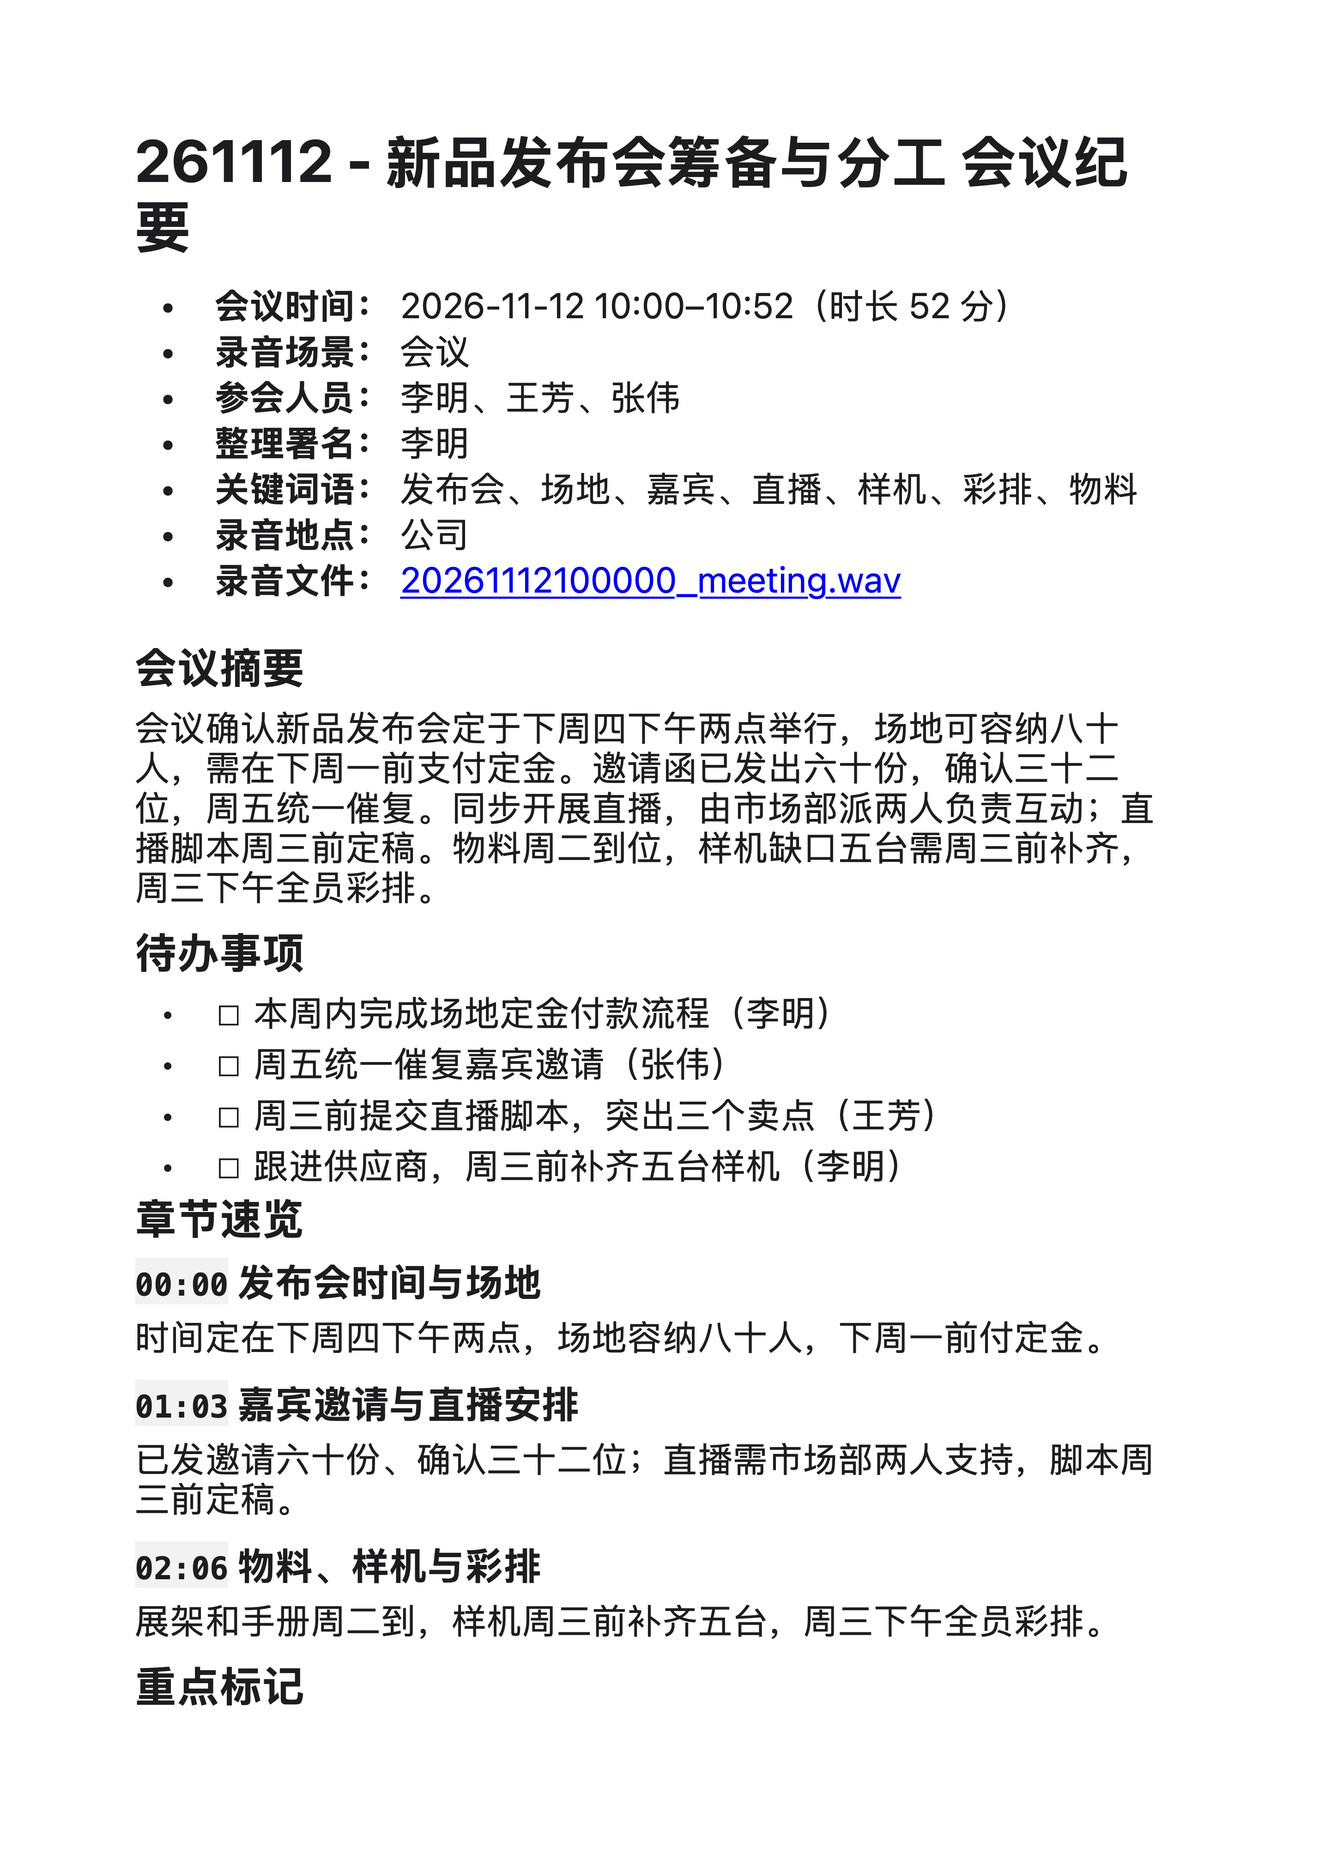
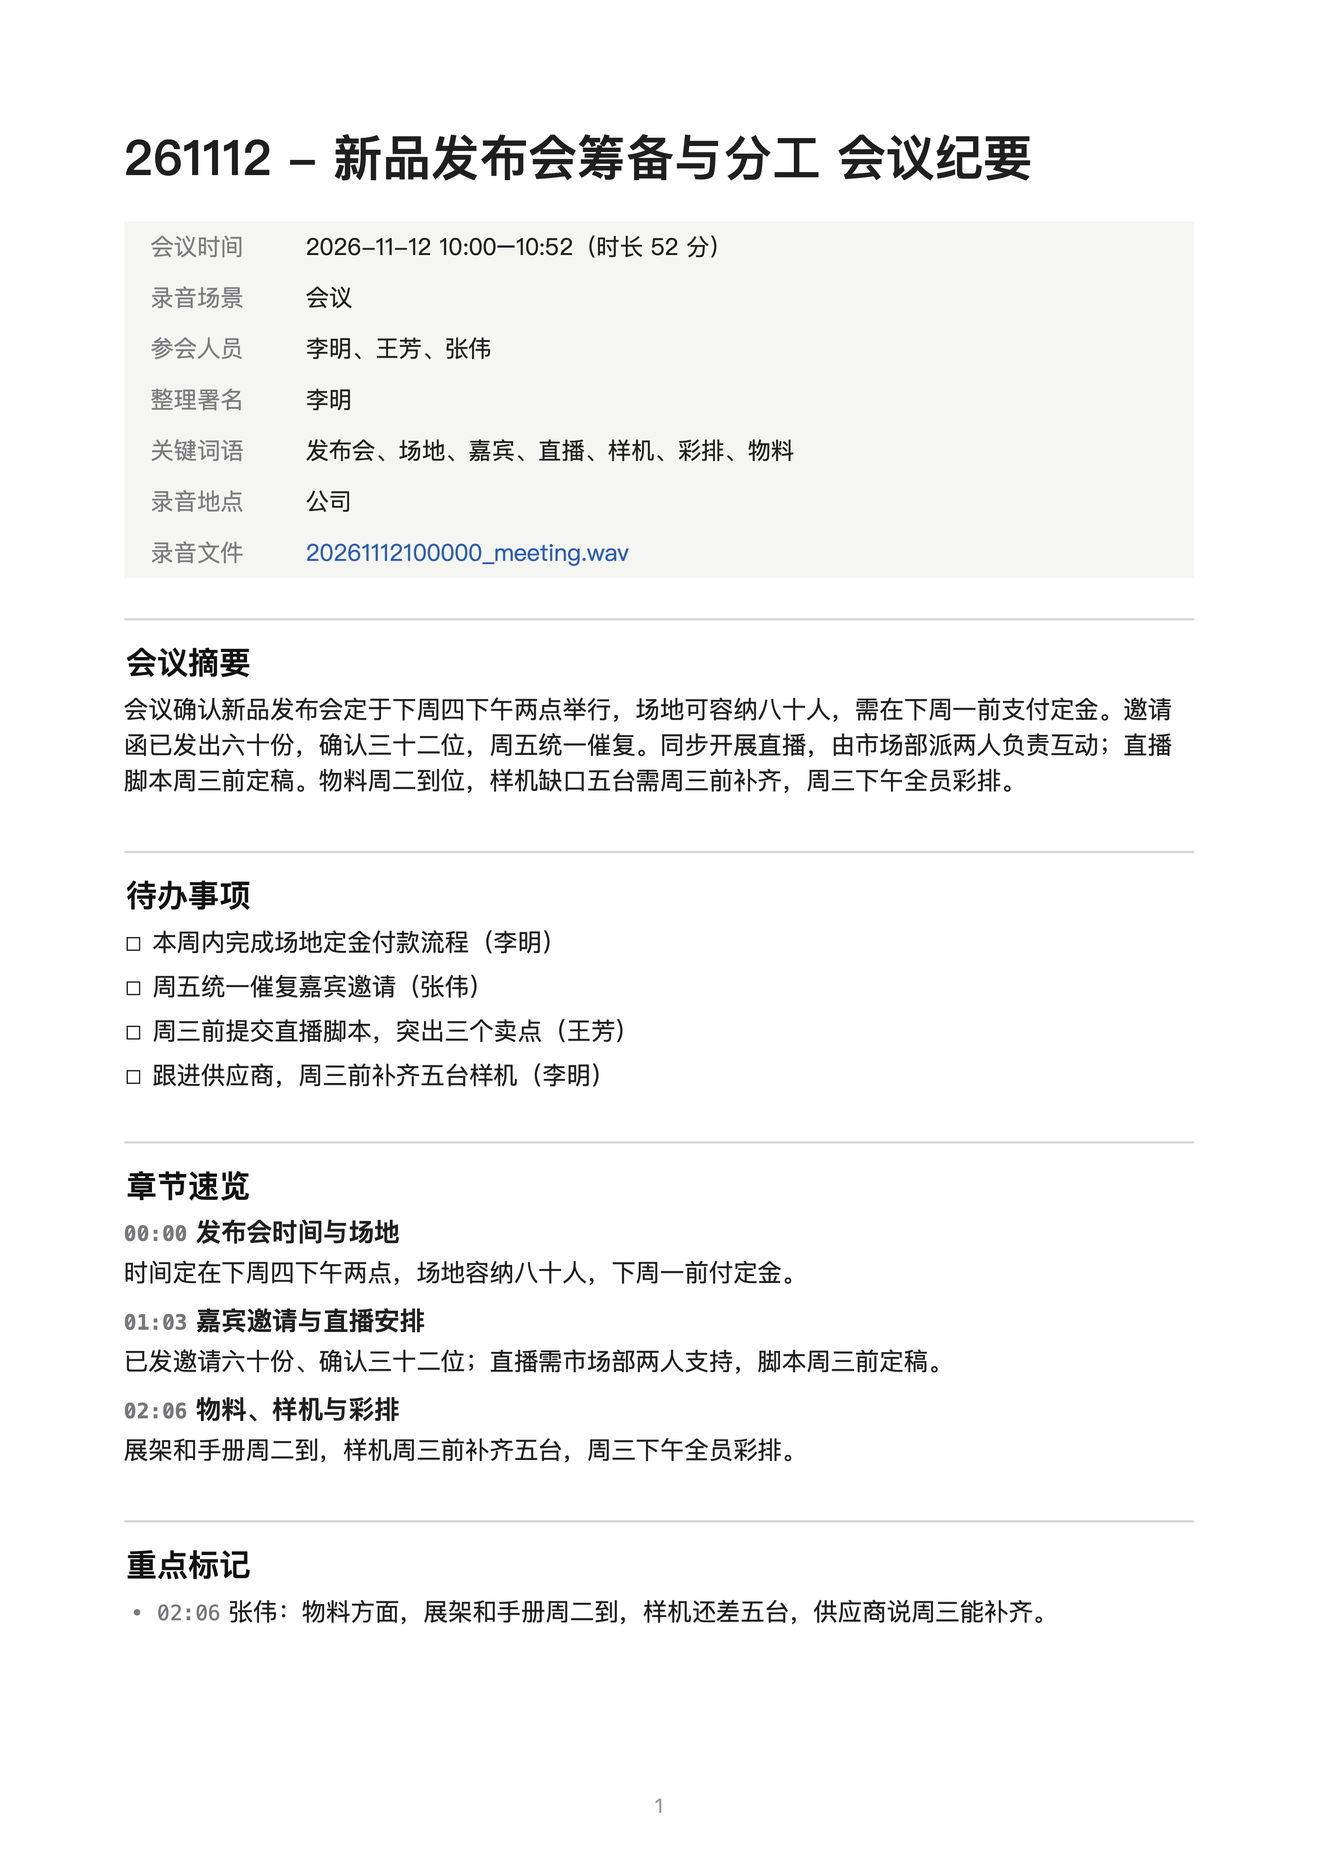
1.3.1：纪要的 PDF / Word 版式重排，示例截图同步更新

diff --git a/app/Sources/E1Recorder/Export.swift b/app/Sources/E1Recorder/Export.swift
@@ -9,31 +9,69 @@ enum NoteExporter {
     @MainActor static func write(_ markdown: String, to url: URL) throws {
         switch url.pathExtension.lowercased() {
         case "docx":
-            let a = try attributed(markdown)
+            let a = try attributed(markdown, layout: .word)
             let data = try a.data(from: NSRange(location: 0, length: a.length),
                                   documentAttributes: [.documentType: NSAttributedString.DocumentType.officeOpenXML])
             try data.write(to: url, options: .atomic)
         case "pdf":
-            try writePDF(try attributed(markdown), to: url)
+            try writePDF(try attributed(markdown, layout: .page), to: url)
         default:
             try markdown.write(to: url, atomically: true, encoding: .utf8)
         }
     }
 
-    @MainActor private static func attributed(_ markdown: String) throws -> NSAttributedString {
-        let html = MarkdownHTML.document(markdown)
-        guard let a = NSAttributedString(html: Data(html.utf8), options: [.characterEncoding: String.Encoding.utf8.rawValue],
-                                         documentAttributes: nil) else { throw AppError("纪要排版失败") }
+    @MainActor private static func attributed(_ markdown: String, layout: MarkdownHTML.Layout) throws -> NSAttributedString {
+        let html = MarkdownHTML.document(markdown, layout: layout)
+        guard let a = NSMutableAttributedString(html: Data(html.utf8), options: [.characterEncoding: String.Encoding.utf8.rawValue],
+                                                documentAttributes: nil) else { throw AppError("纪要排版失败") }
+        tune(a)
         return a
     }
 
-    /// A4 pages with 2 cm margins.
+    /// The HTML importer sizes tables for an 800-point window and indents lists deeply; refit both to the page.
+    private static func tune(_ a: NSMutableAttributedString) {
+        var tableWidth: [ObjectIdentifier: CGFloat] = [:]
+        var cells = Set<ObjectIdentifier>()
+        a.enumerateAttribute(.paragraphStyle, in: NSRange(location: 0, length: a.length)) { value, range, _ in
+            guard let old = value as? NSParagraphStyle else { return }
+            for case let cell as NSTextTableBlock in old.textBlocks {
+                let table = cell.table, key = ObjectIdentifier(table)
+                if tableWidth[key] == nil {
+                    tableWidth[key] = table.contentWidthValueType == .absoluteValueType ? table.contentWidth : 0
+                    table.setContentWidth(100, type: .percentageValueType)
+                }
+                guard cells.insert(ObjectIdentifier(cell)).inserted else { continue }
+                if table.numberOfColumns == 1 {
+                    cell.setContentWidth(0, type: .absoluteValueType)      // a width of 0 means "take what is left": the full line
+                    // space above goes here: a top margin written in CSS is also taken off the right-hand side
+                    let ruled = cell.width(for: .border, edge: .minY) > 0
+                    cell.setWidth(ruled ? 18 : 6, type: .absoluteValueType, for: .margin, edge: .minY)
+                    if !ruled { cell.setWidth(8, type: .absoluteValueType, for: .margin, edge: .maxY) }
+                } else if table.numberOfColumns == 2, cell.backgroundColor != nil, cell.width(for: .border, edge: .minY) == 0 {
+                    // the details block: a label column just wide enough for four characters, the rest for the value
+                    cell.setContentWidth(cell.startingColumn == 0 ? 46 : 0, type: .absoluteValueType)
+                } else if let total = tableWidth[key], total > 0, cell.contentWidthValueType == .absoluteValueType, cell.contentWidth > 0 {
+                    cell.setContentWidth(min(100, cell.contentWidth / total * 100), type: .percentageValueType)
+                }
+            }
+            if !old.textLists.isEmpty, let p = old.mutableCopy() as? NSMutableParagraphStyle {
+                let indent = CGFloat(old.textLists.count - 1) * 16
+                p.tabStops = [NSTextTab(textAlignment: .left, location: indent + 3), NSTextTab(textAlignment: .left, location: indent + 15)]
+                p.firstLineHeadIndent = 0
+                p.headIndent = indent + 15
+                a.addAttribute(.paragraphStyle, value: p, range: range)
+            }
+        }
+    }
+
+    /// A4 pages with 2 cm margins and a page number at the foot.
     @MainActor private static func writePDF(_ text: NSAttributedString, to url: URL) throws {
         let paper = NSSize(width: 595.28, height: 841.89), margin: CGFloat = 56
-        let view = NSTextView(frame: NSRect(x: 0, y: 0, width: paper.width - 2 * margin, height: 10))
+        let view = PageView(frame: NSRect(x: 0, y: 0, width: paper.width - 2 * margin, height: 10))
         view.textStorage?.setAttributedString(text)
         view.isVerticallyResizable = true
         view.textContainer?.widthTracksTextView = true
+        view.textContainer?.lineFragmentPadding = 0
         view.layoutManager?.ensureLayout(for: view.textContainer!)
         view.sizeToFit()
         let info = NSPrintInfo(dictionary: [.jobSavingURL: url])
@@ -48,38 +86,95 @@ enum NoteExporter {
         op.showsProgressPanel = false
         guard op.run() else { throw AppError("生成 PDF 失败") }
     }
+
+    /// The text of the note, plus a small page number centred in the bottom margin of every sheet.
+    private final class PageView: NSTextView {
+        override func drawPageBorder(with borderSize: NSSize) {
+            guard let op = NSPrintOperation.current else { return }
+            let saved = frame
+            setFrameOrigin(.zero)
+            setFrameSize(borderSize)
+            lockFocus()
+            let label = NSAttributedString(string: "\(op.currentPage)", attributes: [
+                .font: NSFont.systemFont(ofSize: 9), .foregroundColor: NSColor(white: 0.6, alpha: 1)])
+            let size = label.size()
+            label.draw(at: NSPoint(x: (borderSize.width - size.width) / 2, y: borderSize.height - op.printInfo.bottomMargin / 2 - size.height / 2))
+            unlockFocus()
+            frame = saved
+        }
+    }
 }
 
 /// Just enough Markdown for our notes (and typical custom templates): front matter (dropped), headings, paragraphs,
 /// lists and task lists, quotes and Obsidian callouts, tables, rules, bold, italic, inline code and links.
 enum MarkdownHTML {
-    static func document(_ md: String) -> String {
+    /// `plain` is semantic HTML; `page` (PDF) adds ruled headings and a details block built from text tables;
+    /// `word` gets the same look without tables, which the system's .docx writer leaves out.
+    enum Layout { case plain, page, word }
+
+    static func document(_ md: String, layout: Layout = .page) -> String {
         """
         <html><head><meta charset="utf-8"><style>
-        body { font-family: -apple-system, "PingFang SC", "Helvetica Neue", sans-serif; font-size: 12pt; line-height: 1.55; color: #1d1d1f; }
-        h1 { font-size: 20pt; margin: 0 0 10pt 0; } h2 { font-size: 15pt; margin: 16pt 0 6pt 0; }
-        h3 { font-size: 13pt; margin: 12pt 0 4pt 0; } h4, h5, h6 { font-size: 12pt; }
-        p { margin: 0 0 8pt 0; } li { margin: 2pt 0; }
-        blockquote { color: #555; border-left: 3px solid #ccc; margin: 6pt 0; padding-left: 10pt; }
-        code { font-family: Menlo, monospace; font-size: 10.5pt; background: #f2f2f2; }
-        table { border-collapse: collapse; margin: 6pt 0 10pt 0; } td, th { border: 1px solid #ccc; padding: 4pt 8pt; vertical-align: top; }
-        th { background: #f5f5f5; } hr { border: none; border-top: 1px solid #ddd; }
+        body { font-family: "PingFang SC", -apple-system, "Helvetica Neue", sans-serif; font-size: 11px; line-height: 1.75; color: #1f1f1f; }
+        h1 { font-size: 22px; font-weight: 600; line-height: 1.35; margin: 0 0 14px 0; }
+        h2 { font-size: 14px; font-weight: 600; color: #111; margin: \(layout == .page ? "0" : "0 0 5px 0"); }
+        table.h2 td { border-top: 1px solid #d6d6d2; padding-top: 9px; padding-bottom: 3px; }
+        h3 { font-size: 11.5px; font-weight: 600; margin: 10px 0 2px 0; }
+        h4, h5, h6 { font-size: 11px; font-weight: 600; margin: 8px 0 2px 0; }
+        p { margin: 0 0 6px 0; }
+        li { margin: 0 0 3px 0; }
+        p.task { margin: 0 0 4px 17px; text-indent: -17px; }
+        table.info td { background: #f5f5f2; padding: 4px 12px; vertical-align: top; font-size: 10.5px; line-height: 1.6; }
+        table.info td.k, p.meta span { color: #7c7c80; }
+        p.meta { margin: 0 0 2px 0; font-size: 10.5px; }
+        table.quote td { border-left: 3px solid #c9c9c5; background: #f7f7f5; color: #555; padding: 6px 12px; }
+        p.quote { margin: 6px 0 8px 14px; color: #555; }
+        p.row { margin: 0 0 3px 0; font-size: 10.5px; }
+        p.gap { margin: 0; font-size: 7px; line-height: 1; }
+        code { font-family: Menlo, monospace; font-size: 9.5px; color: #77777c; }
+        a { color: #2a5db0; text-decoration: none; }
+        table.grid { border-collapse: collapse; } table.grid td, table.grid th { border: 1px solid #d5d5d2; padding: 4px 8px; vertical-align: top; font-size: 10.5px; }
+        table.grid th { background: #f2f2ef; font-weight: 600; }
         </style></head><body>
-        \(body(md))
+        \(body(md, layout: layout))
         </body></html>
         """
     }
 
-    static func body(_ md: String) -> String {
+    static func body(_ md: String, layout: Layout = .plain) -> String {
+        let styled = layout != .plain, page = layout == .page
         var lines = md.replacingOccurrences(of: "\r\n", with: "\n").components(separatedBy: "\n")
         // drop YAML front matter
         if lines.first == "---", let end = lines.dropFirst().firstIndex(of: "---") { lines.removeSubrange(0...end) }
         var out: [String] = []
         var para: [String] = []
-        var list: String?          // "ul" / "ol"
+        var list: (tag: String, items: [String])?
         var i = 0
         func flushPara() { if !para.isEmpty { out.append("<p>" + para.map(inline).joined(separator: "<br>") + "</p>"); para = [] } }
-        func closeList() { if let l = list { out.append("</\(l)>"); list = nil } }
+        func closeList() {
+            guard let l = list else { return }
+            list = nil
+            if styled, l.tag == "ul", l.items.count >= 2, let rows = detailRows(l.items) {
+                // "- **会议时间：** …" lists read better as a label column and a value column
+                if page {
+                    out.append("<table class=\"info\" cellspacing=\"0\" width=\"100%\">"
+                               + rows.map { "<tr><td class=\"k\">\(inline($0.0))</td><td class=\"v\">\(inline($0.1))</td></tr>" }.joined() + "</table>")
+                } else {
+                    out.append(contentsOf: rows.map { "<p class=\"meta\"><span>\(inline($0.0))</span>\u{3000}\(inline($0.1))</p>" })
+                }
+            } else if styled, l.tag == "ul", l.items.allSatisfy({ $0.hasPrefix("☐ ") || $0.hasPrefix("☑ ") }) {
+                out.append(contentsOf: l.items.map { "<p class=\"task\">\(inline($0))</p>" })     // a box per line, no bullet in front of it
+            } else if layout == .word {
+                // plain hanging paragraphs: list indents do not survive the .docx writer well
+                out.append(contentsOf: l.items.enumerated().map { "<p class=\"task\">\(l.tag == "ol" ? "\($0.offset + 1)." : "•")\u{2002}\(inline($0.element))</p>" })
+            } else {
+                out.append("<\(l.tag)>" + l.items.map { "<li>\(inline($0))</li>" }.joined() + "</\(l.tag)>")
+            }
+        }
+        func add(_ tag: String, _ item: String) {
+            if list?.tag != tag { closeList(); list = (tag, []) }
+            list?.items.append(item)
+        }
 
         while i < lines.count {
             let raw = lines[i]
@@ -89,11 +184,22 @@ enum MarkdownHTML {
             if let m = line.range(of: "^#{1,6} ", options: .regularExpression) {
                 flushPara(); closeList()
                 let level = line[m].count - 1
-                out.append("<h\(level)>\(inline(String(line[m.upperBound...])))</h\(level)>")
+                let h = "<h\(level)>\(inline(String(line[m.upperBound...])))</h\(level)>"
+                if page && level == 2 {
+                    out.append("<table class=\"h2\" cellspacing=\"0\" width=\"100%\"><tr><td>\(h)</td></tr></table>")
+                } else {
+                    // .docx keeps only the space after a paragraph, so the gap above a section is a thin paragraph of its own
+                    if layout == .word, level == 2, !out.isEmpty { out.append("<p class=\"gap\">\u{200B}</p>") }
+                    out.append(h)
+                }
                 i += 1; continue
             }
-            // rule
-            if line.range(of: "^(-{3,}|\\*{3,}|_{3,})$", options: .regularExpression) != nil { flushPara(); closeList(); out.append("<hr>"); i += 1; continue }
+            // rule: dropped in the page and Word layouts, where headings carry the spacing (and, on the page, their own rule)
+            if line.range(of: "^(-{3,}|\\*{3,}|_{3,})$", options: .regularExpression) != nil {
+                flushPara(); closeList()
+                if !styled { out.append("<hr>") }
+                i += 1; continue
+            }
             // table: header row followed by a |---| row
             if line.hasPrefix("|"), i + 1 < lines.count,
                lines[i + 1].trimmingCharacters(in: .whitespaces).range(of: "^\\|?\\s*:?-{2,}", options: .regularExpression) != nil {
@@ -101,8 +207,13 @@ enum MarkdownHTML {
                 var rows = [cells(line)]
                 i += 2
                 while i < lines.count, lines[i].trimmingCharacters(in: .whitespaces).hasPrefix("|") { rows.append(cells(lines[i])); i += 1 }
-                out.append("<table><tr>" + rows[0].map { "<th>\(inline($0))</th>" }.joined() + "</tr>"
-                           + rows.dropFirst().map { "<tr>" + $0.map { "<td>\(inline($0))</td>" }.joined() + "</tr>" }.joined() + "</table>")
+                if layout == .word {      // no tables in .docx: one line per row
+                    out.append("<p class=\"row\"><b>" + rows[0].map(inline).joined(separator: "\u{3000}|\u{3000}") + "</b></p>")
+                    out.append(contentsOf: rows.dropFirst().map { "<p class=\"row\">" + $0.map(inline).joined(separator: "\u{3000}|\u{3000}") + "</p>" })
+                } else {
+                    out.append("<table\(page ? " class=\"grid\" cellspacing=\"0\"" : "")><tr>" + rows[0].map { "<th>\(inline($0))</th>" }.joined() + "</tr>"
+                               + rows.dropFirst().map { "<tr>" + $0.map { "<td>\(inline($0))</td>" }.joined() + "</tr>" }.joined() + "</table>")
+                }
                 continue
             }
             // quote / callout
@@ -115,22 +226,22 @@ enum MarkdownHTML {
                     if !t.isEmpty { q.append(inline(t)) }
                     i += 1
                 }
-                out.append("<blockquote>" + q.joined(separator: "<br>") + "</blockquote>")
+                let text = q.joined(separator: "<br>")
+                out.append(page ? "<table class=\"quote\" cellspacing=\"0\" width=\"100%\"><tr><td>\(text)</td></tr></table>"
+                           : styled ? "<p class=\"quote\">\(text)</p>" : "<blockquote>\(text)</blockquote>")
                 continue
             }
             // lists
             if let m = line.range(of: "^[-*+] ", options: .regularExpression) {
                 flushPara()
-                if list != "ul" { closeList(); out.append("<ul>"); list = "ul" }
                 var item = String(line[m.upperBound...])
                 if item.hasPrefix("[ ] ") { item = "☐ " + item.dropFirst(4) } else if item.lowercased().hasPrefix("[x] ") { item = "☑ " + item.dropFirst(4) }
-                out.append("<li>\(inline(item))</li>")
+                add("ul", item)
                 i += 1; continue
             }
             if let m = line.range(of: "^\\d+[.)] ", options: .regularExpression) {
                 flushPara()
-                if list != "ol" { closeList(); out.append("<ol>"); list = "ol" }
-                out.append("<li>\(inline(String(line[m.upperBound...])))</li>")
+                add("ol", String(line[m.upperBound...]))
                 i += 1; continue
             }
             closeList()
@@ -139,6 +250,17 @@ enum MarkdownHTML {
         }
         flushPara(); closeList()
         return out.joined(separator: "\n")
+    }
+
+    /// Splits "**标签：** 内容" items into (label, value); nil unless every item has that shape.
+    private static func detailRows(_ items: [String]) -> [(String, String)]? {
+        var rows: [(String, String)] = []
+        for item in items {
+            guard let m = item.range(of: "^\\*\\*[^*]{1,12}?[：:]\\*\\*\\s*", options: .regularExpression) else { return nil }
+            let label = item[m].trimmingCharacters(in: .whitespaces).dropFirst(2).dropLast(3)
+            rows.append((String(label), String(item[m.upperBound...])))
+        }
+        return rows
     }
 
     private static func cells(_ row: String) -> [String] {

diff --git a/app/Tests/E1RecorderTests/E1RecorderTests.swift b/app/Tests/E1RecorderTests/E1RecorderTests.swift
@@ -103,6 +103,26 @@ final class MarkdownExportTests: XCTestCase {
         XCTAssertTrue(html.contains("<blockquote>时间可能不准</blockquote>"))
     }
 
+    func testPageAndWordLayouts() {
+        let md = """
+        - **会议时间：** 12:46
+        - **参会人员：** 张三、李四
+
+        ## 待办事项
+
+        - [ ] 发通知
+        - [x] 订场地
+        """
+        let page = MarkdownHTML.body(md, layout: .page)
+        XCTAssertTrue(page.contains("<td class=\"k\">会议时间</td><td class=\"v\">12:46</td>"))     // details become two columns
+        XCTAssertTrue(page.contains("<p class=\"task\">☐ 发通知</p>") && page.contains("<p class=\"task\">☑ 订场地</p>"))
+        XCTAssertTrue(page.contains("<table class=\"h2\""))
+        let word = MarkdownHTML.body(md, layout: .word)
+        XCTAssertFalse(word.contains("<table"))                 // the .docx writer leaves tables out
+        XCTAssertTrue(word.contains("<span>会议时间</span>") && word.contains("<h2>待办事项</h2>"))
+        XCTAssertTrue(MarkdownHTML.body(md).contains("<li><b>会议时间：</b> 12:46</li>"))     // plain output stays semantic
+    }
+
     func testEscapesHTML() {
         XCTAssertEqual(MarkdownHTML.inline("a < b & c"), "a &lt; b &amp; c")
     }

diff --git a/CHANGELOG.md b/CHANGELOG.md
@@ -1,5 +1,10 @@
 # 更新说明
 
+## 1.3.1（2026-11）
+
+- 纪要的 PDF 版式重排：会议信息排成两栏、各节带分隔线、待办一行一个勾选框、列表缩进收紧、字号按纸面实际尺寸校正，页脚加页码。
+- Word 格式用同样的层次重排（系统的 .docx 导出不支持表格，会议信息改为「标签 内容」逐行排列）。
+
 ## 1.3.0（2026-11）
 
 **转写页重新设计**
